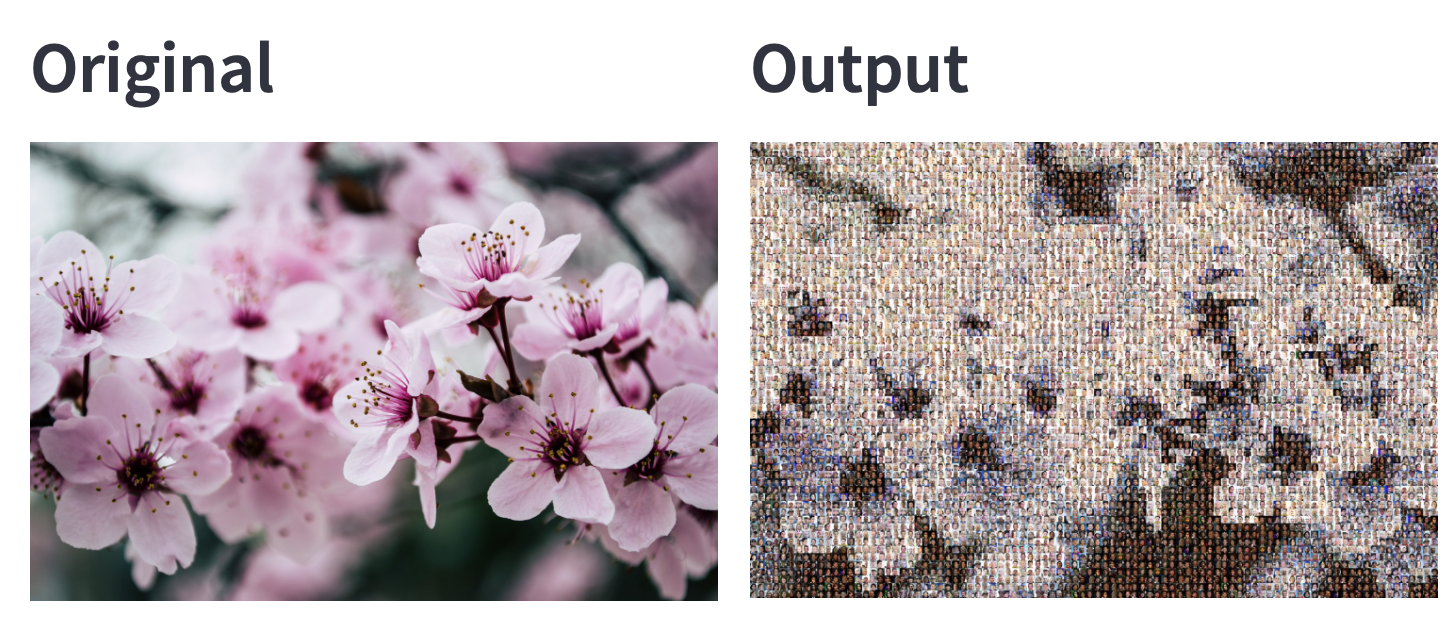
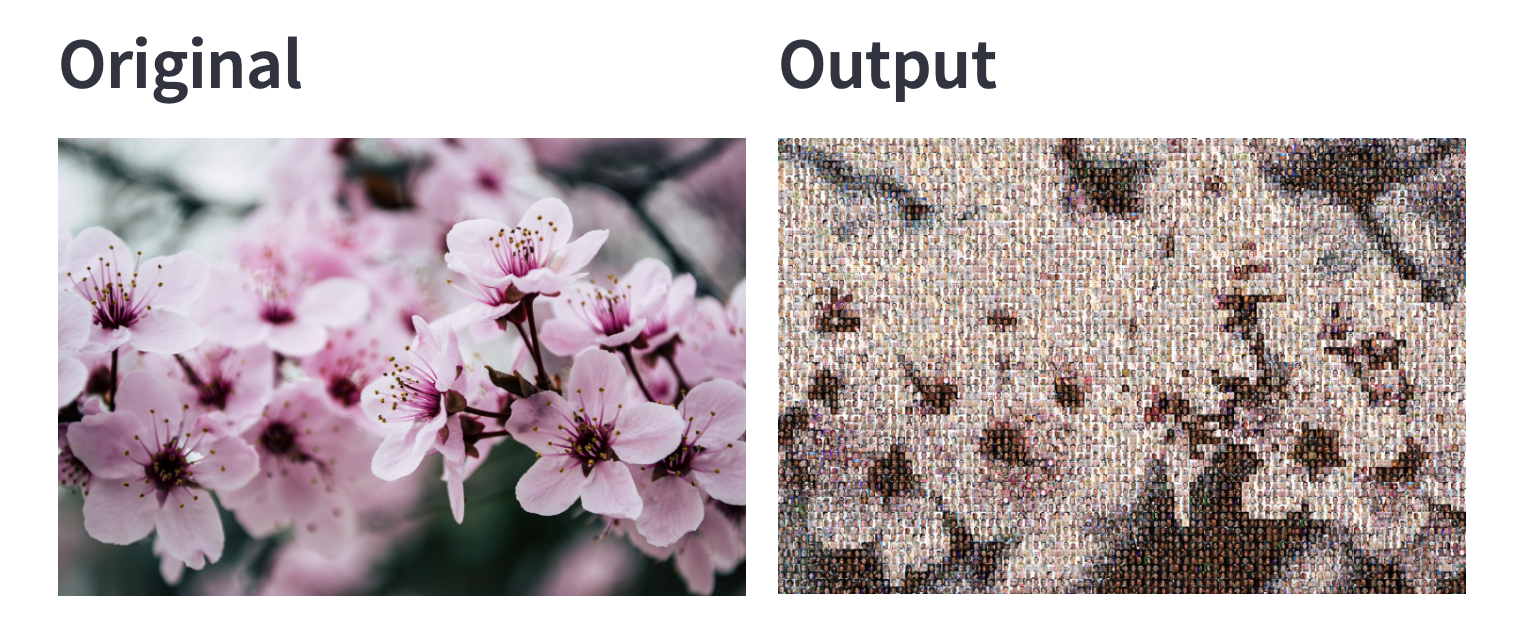
Edit mosaic filter

diff --git a/filters.py b/filters.py
@@ -81,6 +81,7 @@ def gaussian_noise(img, var = 0.2):
 @st.cache_data
 def mosaic(img, size = 50):
     img_mosaic = img.copy()
+    img_mosaic = img_mosaic[:,:,::-1]
     
     # Pixelate the image by keeping every nth pixel
     mos_template = img_mosaic[::size, ::size]
